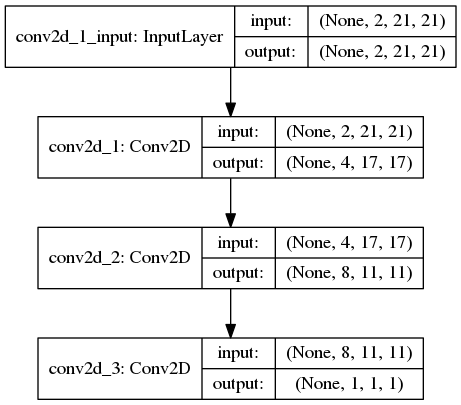
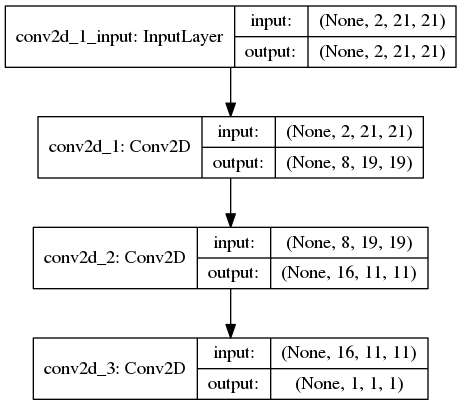
Experimenting with larger networks. Results seem promising so far wiht good predictions. Hard to see if this will result in any explosive event signatures though, since predicted speeds are low

diff --git a/src/python/minnd/main.py b/src/python/minnd/main.py
@@ -36,27 +36,46 @@ with h5py.File(test_index, 'r') as f, h5py.File(train_index, 'r') as g:
     net = Sequential()
 
     # Apply a convolution operation
-    net.add(Conv2D(4, (5, 5), dilation_rate=(1, 1), activation='tanh', padding='valid', data_format='channels_first', kernel_regularizer=regularizers.l2(1e-2), input_shape=(t_sz[1], t_sz[2], t_sz[3])))
+    net.add(Conv2D(8, (3, 3), dilation_rate=(1, 1), activation='tanh', padding='valid', data_format='channels_first', kernel_regularizer=regularizers.l2(1e-1), input_shape=(t_sz[1], t_sz[2], t_sz[3])))
 
-    net.add(Conv2D(8, (7, 7), dilation_rate=(1, 1), activation='tanh', padding='valid', data_format='channels_first', kernel_regularizer=regularizers.l2(1e-2)))
+    net.add(Conv2D(16, (9, 9), dilation_rate=(1, 1), activation='tanh', padding='valid', data_format='channels_first', kernel_regularizer=regularizers.l2(1e-1)))
 
-    net.add(Conv2D(1, (11, 11), dilation_rate=(1, 1), activation=None, padding='valid', data_format='channels_first', kernel_regularizer=regularizers.l2(1e-2)))
+    net.add(Conv2D(1, (11, 11), dilation_rate=(1, 1), activation=None, padding='valid', data_format='channels_first', kernel_regularizer=regularizers.l2(1e-1)))
     # net.add(Dense())
 
     plot_model(model=net, to_file='id.png', show_shapes=True, show_layer_names=True)
 
     # Build the optimizer
-    sgd = SGD(lr=1e-3, decay=1e-6, momentum=0.9, nesterov=True)
+    sgd = SGD(lr=5e-4, decay=1e-6, momentum=0.9, nesterov=True)
 
     # Compile parameters into the model
     net.compile(optimizer=sgd, loss='mse')
 
     # Train the model
-    net.fit(train_x, train_y, batch_size=2048, epochs=100, callbacks=[cb], verbose=1, validation_data=(train_x, train_y), shuffle='batch')
+    net.fit(train_x, train_y, batch_size=512, epochs=100, callbacks=[cb], verbose=1, validation_data=(train_x, train_y), shuffle='batch')
 
-    pred = net.predict(test_x, batch_size=2048, verbose=1)
+    pred = net.predict(test_x, batch_size=512, verbose=1)
 
-    n = np.arange(0.0,10000.0)
-    plt.plot(n, np.squeeze(pred[0:10000]), n, np.squeeze(test_y[0:10000]))
+    n = np.arange(0.0,20000.0)
+    plt.figure(1)
+    plt.plot(n, np.squeeze(pred[0:20000]), n, np.squeeze(test_y[0:20000]))
+
+    plt.figure(2)
+    ind = 9414
+    cube = train_x[ind,:,:,:]
+
+
+
+    plus = cube[1,:,:]
+    zero = cube[0,:,:]
+    print(plus.shape)
+
+    plt.imshow(plus + zero)
+
     plt.show()
+
+    print("predicted value", pred[ind])
+
+    print('Actual value', test_y[ind])
+
 
